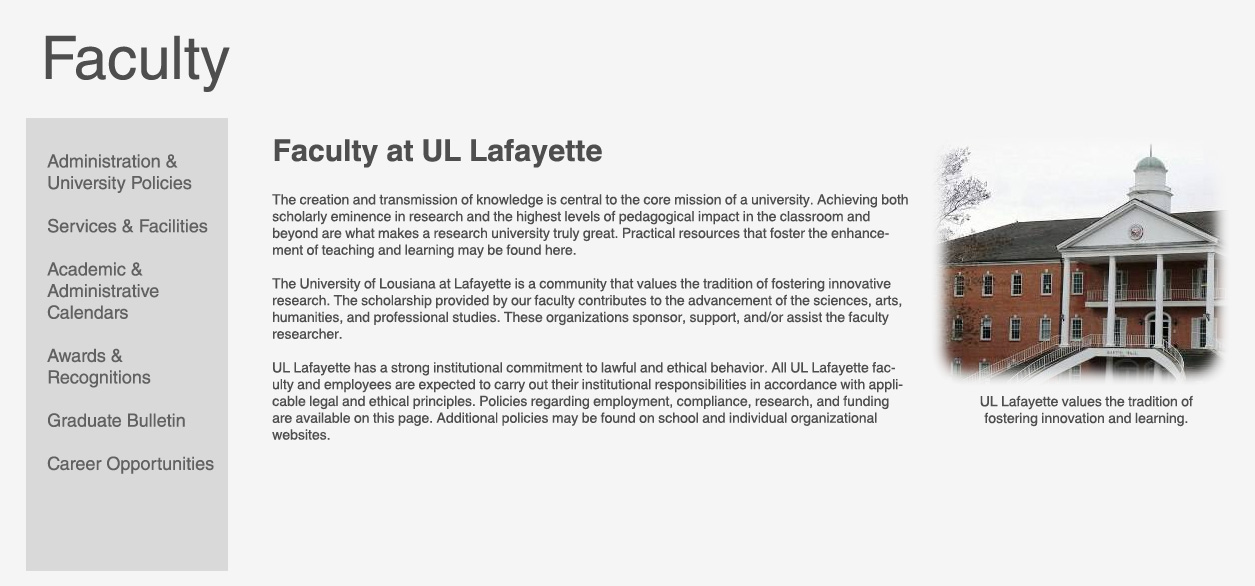
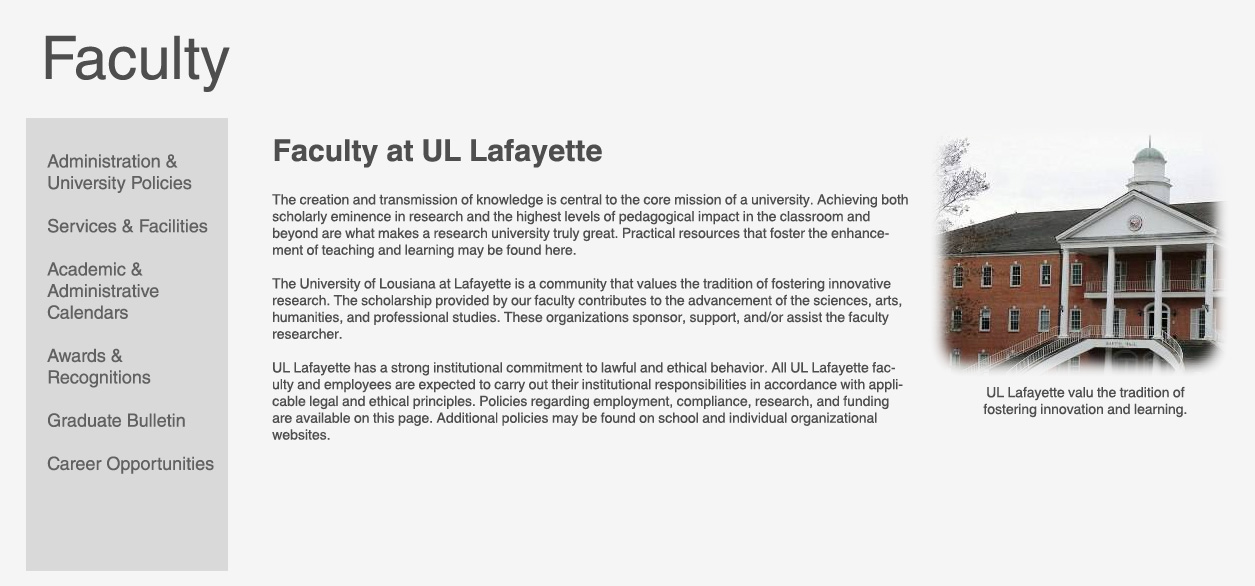
edit

Changed region(s): [[0.7458, 0.2457, 0.9944, 0.7372]]

diff --git a/Redesign/faculty.html b/Redesign/faculty.html
@@ -83,8 +83,17 @@
 
 
 <div class="content-stuff">
-<div class="container">
-<img src="images/faculty.jpg">
+<div class="img-center">
+<img src="images/faculty.jpg" usemap="#faculty" alt="" style="border-style:none" /><map id="faculty" name="faculty">
+<area shape="rect" alt="" coords="42,32,230,93" href="faculty.html" title="" />
+<area shape="rect" alt="" coords="45,153,194,190" href="#" title="" />
+<area shape="rect" alt="" coords="44,217,209,237" href="#" title="" />
+<area shape="rect" alt="" coords="47,260,159,320" href="#" title="" />
+<area shape="rect" alt="" coords="46,347,154,386" href="#" title="" />
+<area shape="rect" alt="" coords="47,407,191,435" href="#" title="" />
+<area shape="rect" alt="" coords="48,453,217,475" href="#" title="" />
+<area shape="default" nohref="nohref" alt="" />
+</map>
 </div>
   
    
